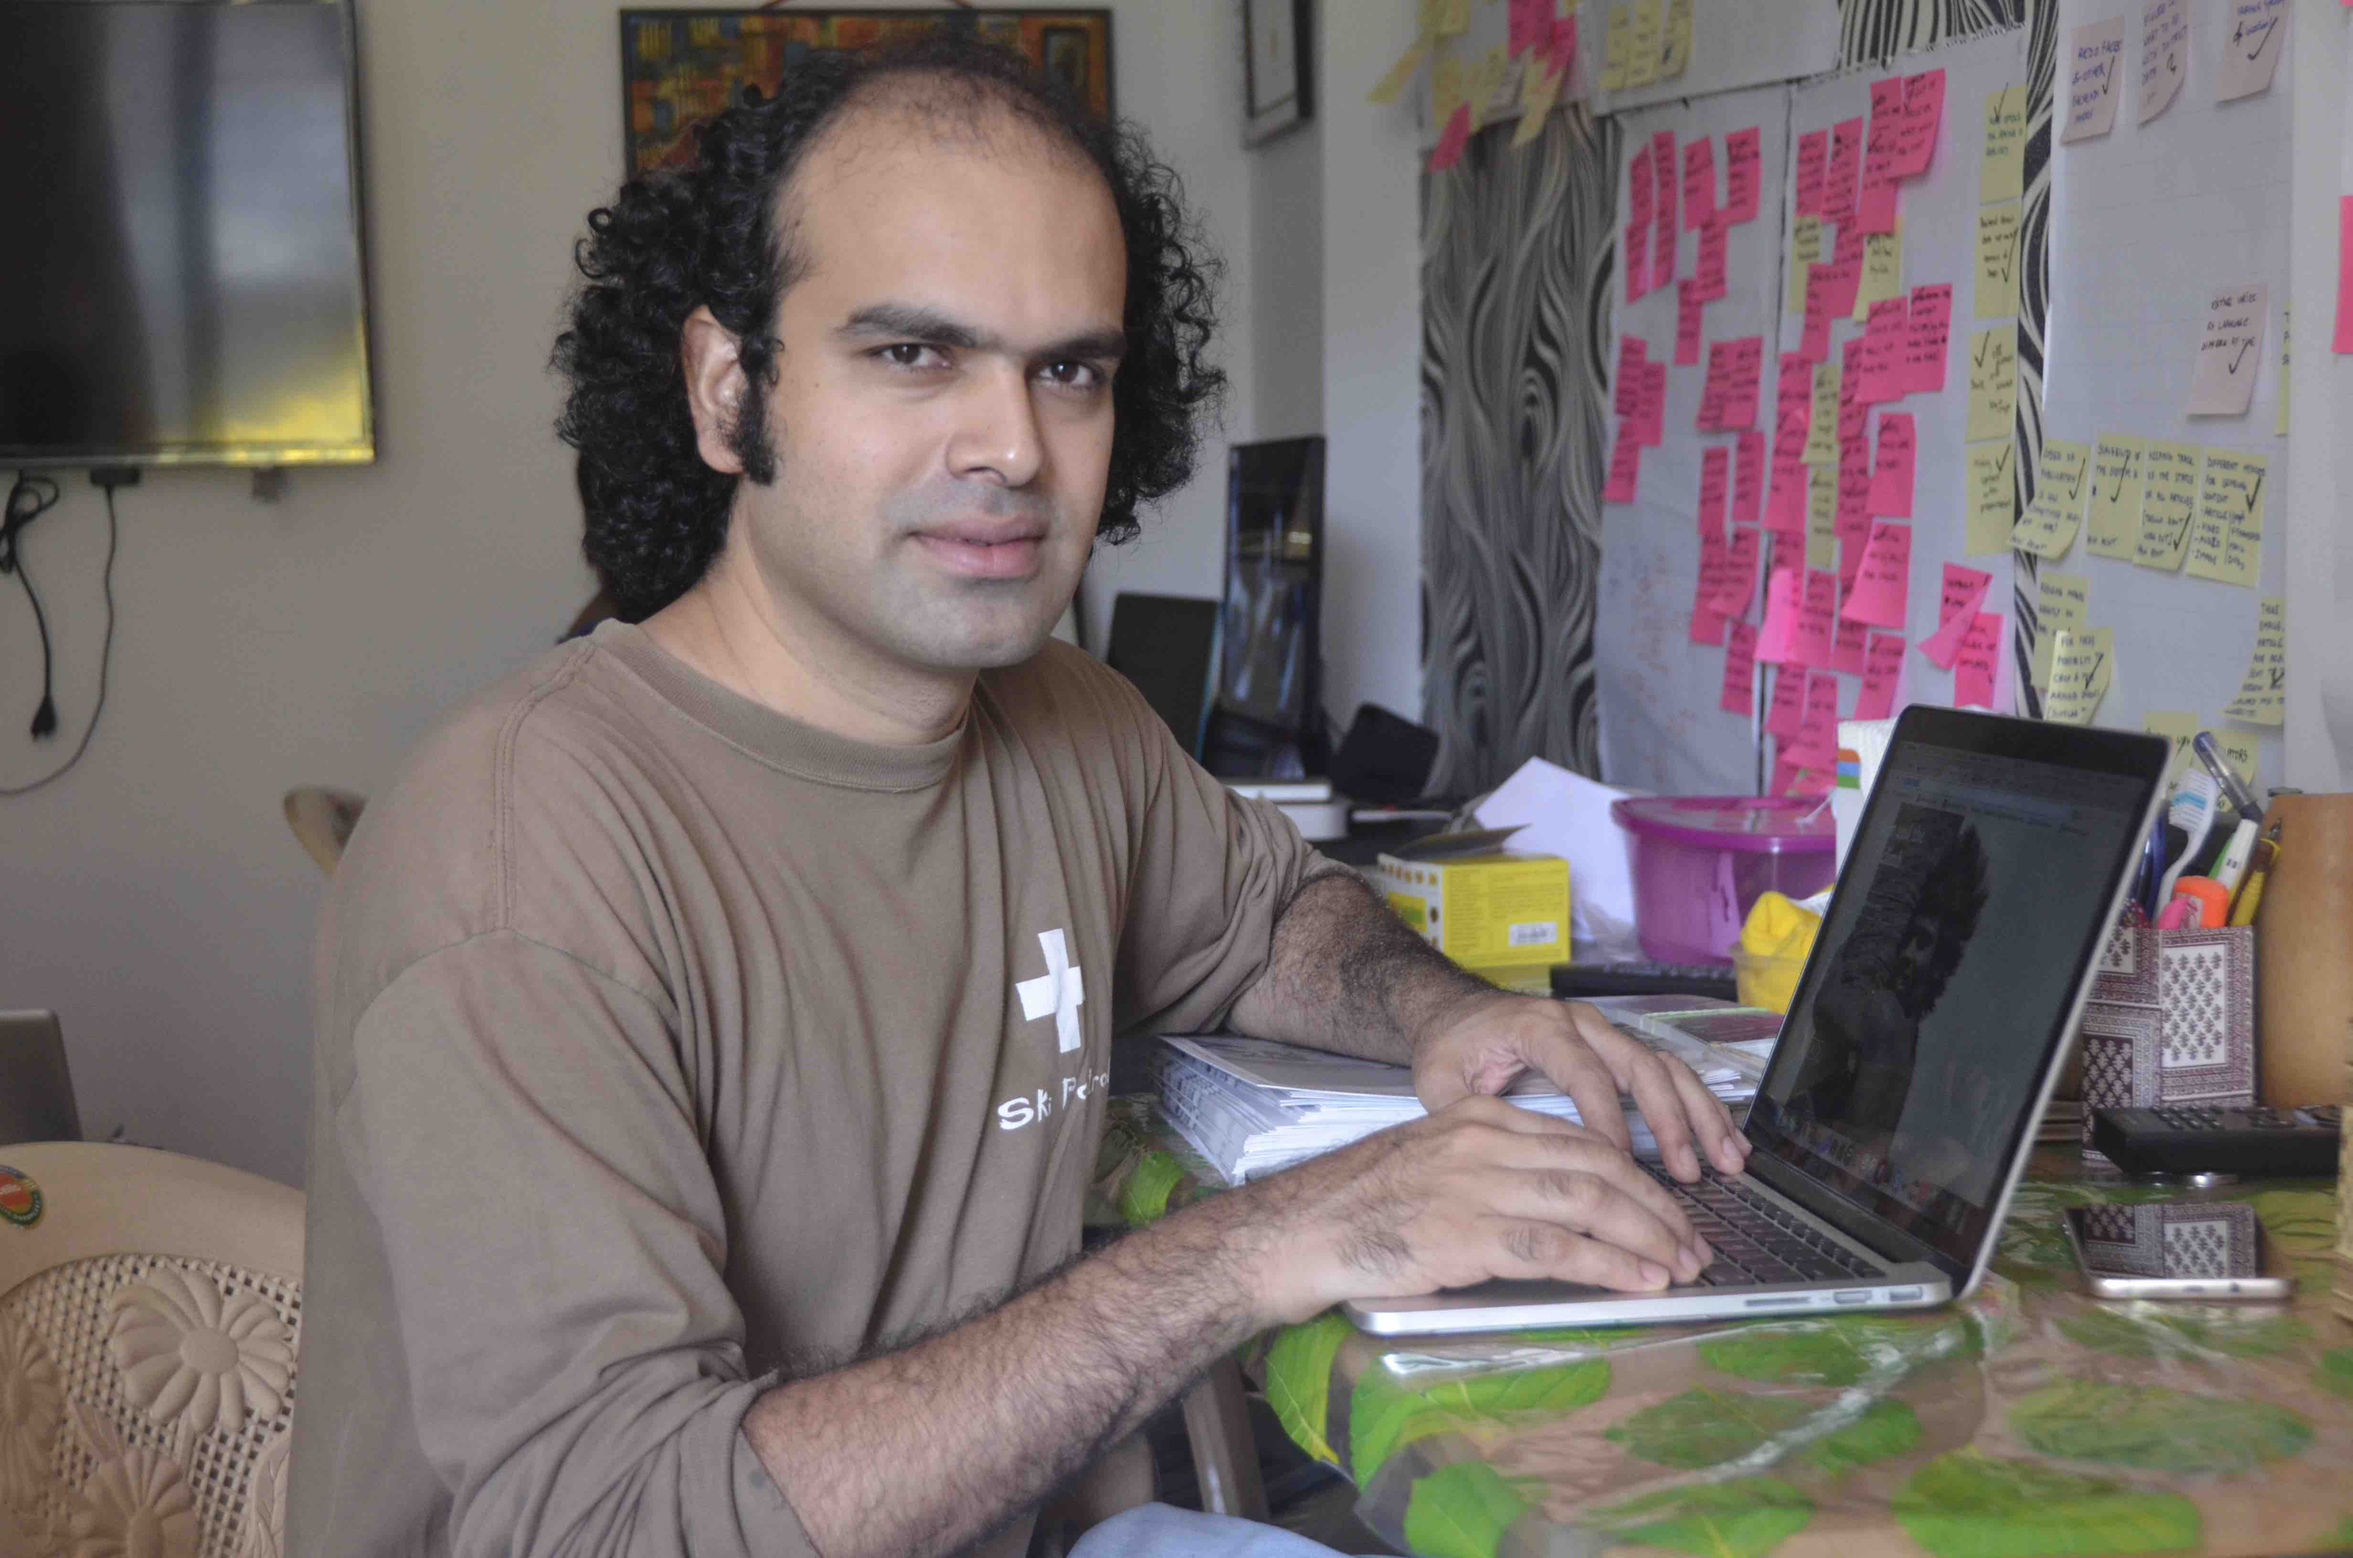
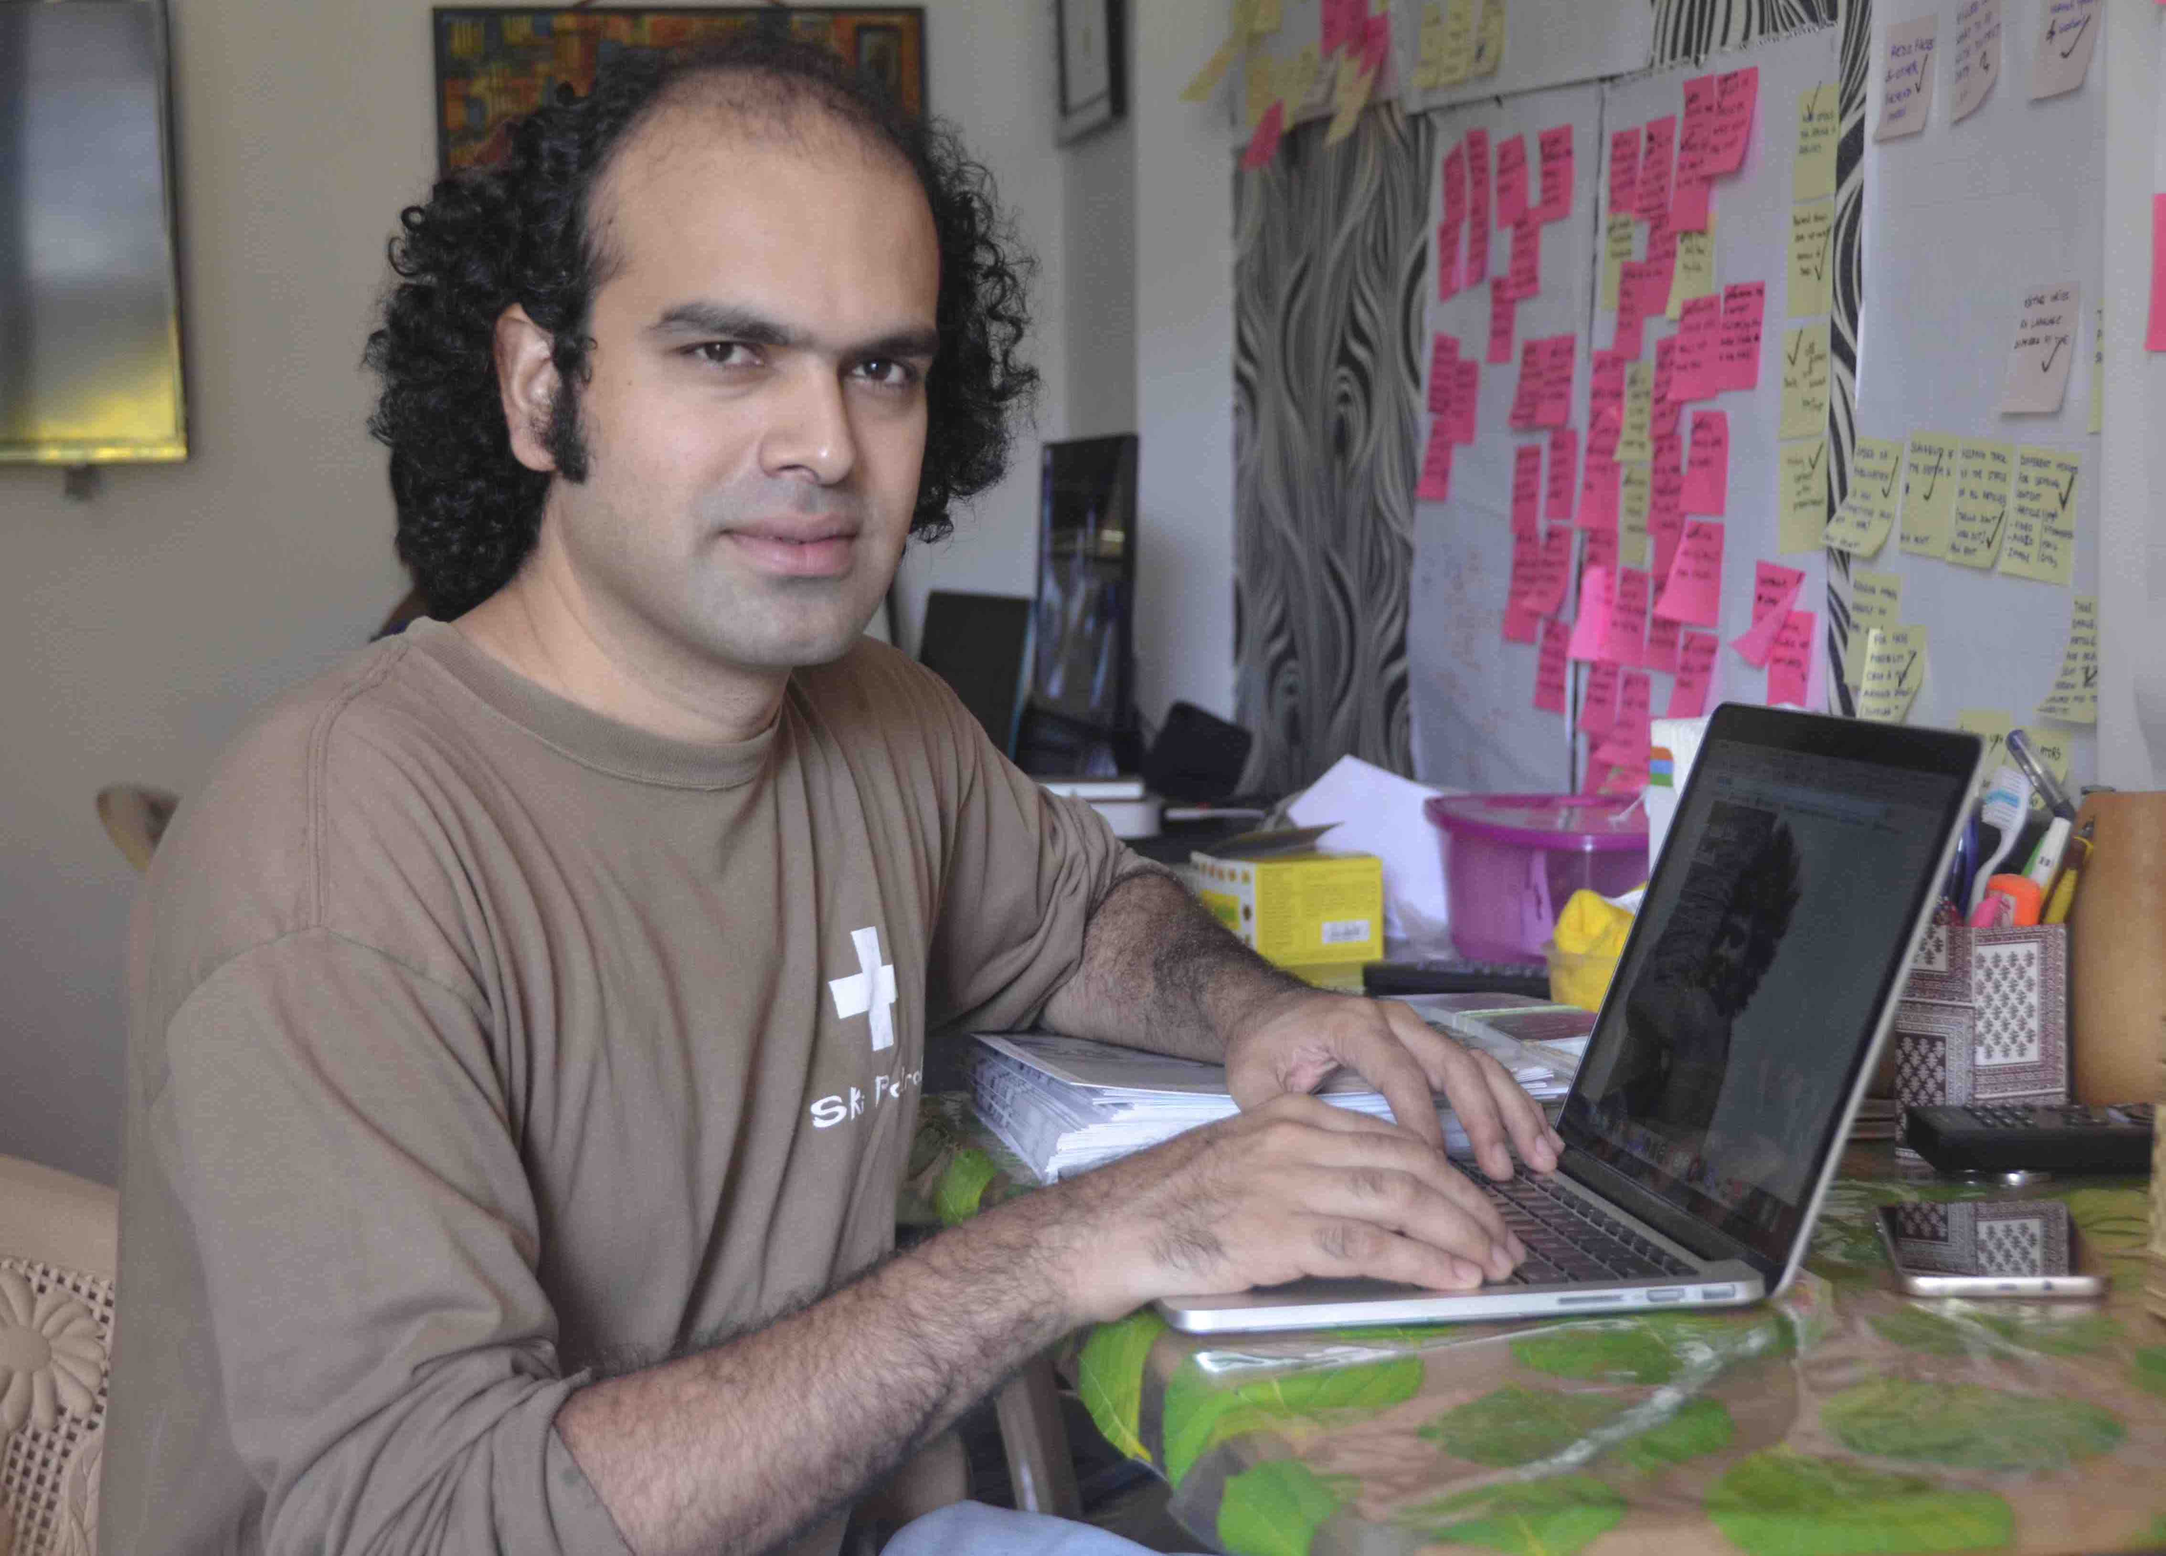
[Dee] Sharmila photo updated

diff --git a/core/templates/core/founders.html b/core/templates/core/founders.html
@@ -49,7 +49,7 @@
                 <span>Namita Waikar</span></div>
             </div>
             <div class="founders-details" >
-                <div class="image-holder"><img height="100%" src="{{ STATIC_URL }}img/founders/Sharmila_Joshi.jpg" ></div>
+                <div class="image-holder"><img src="{{ STATIC_URL }}img/founders/Sharmila_Joshi.jpg" ></div>
                 <div class="detail-holder"><h4>EDITORIAL CHIEF</h4>
                 <span>Sharmila Joshi</span></div>
             </div>
